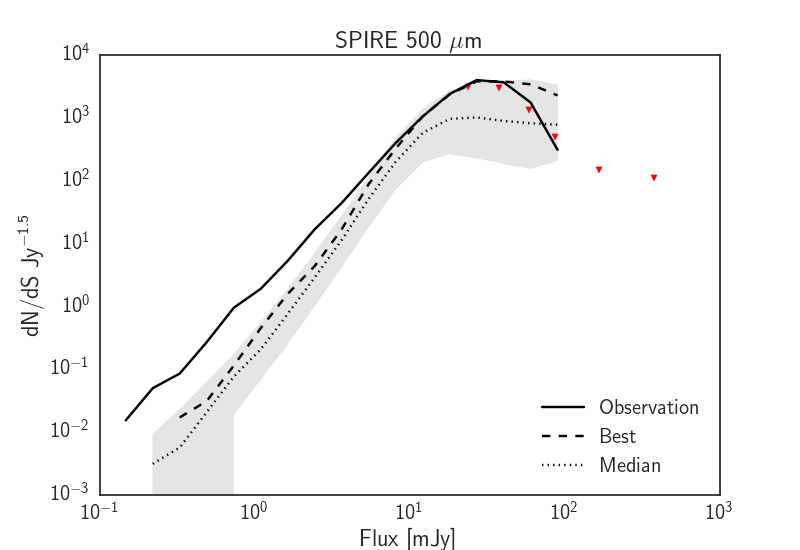
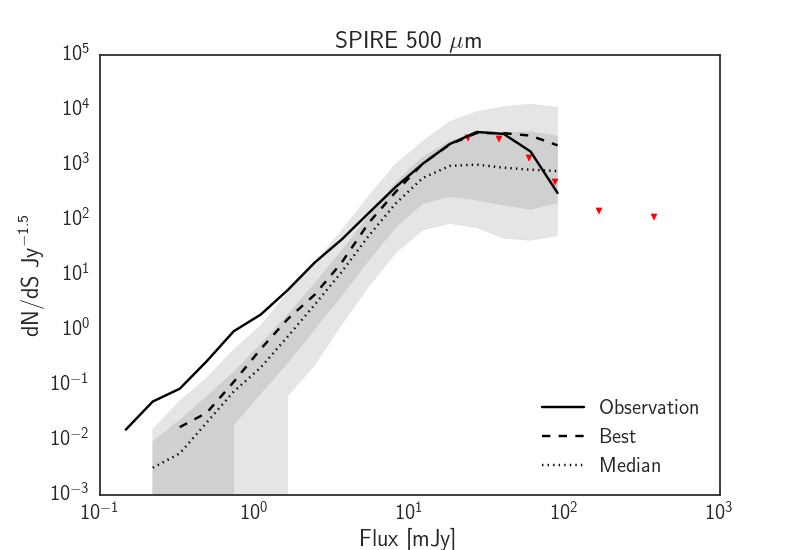
changed count plots

diff --git a/trunk/python/OutputFile.py b/trunk/python/OutputFile.py
@@ -241,6 +241,8 @@ class NumberCounts:
         medians=np.zeros(len(bins))
         errlow=np.zeros(len(bins))
         errhigh=np.zeros(len(bins))
+        errlow2=np.zeros(len(bins))
+        errhigh2=np.zeros(len(bins))
         for i in range(0,len(chainCounts[0])):
             link=chainCounts[:,i]
             medians[i]=np.median(link)
@@ -249,6 +251,10 @@ class NumberCounts:
             highind=int((1.0-0.159)*len(sortpts))
             errlow[i]=medians[i]-link[sortpts[lowind]]
             errhigh[i]=link[sortpts[highind]]-medians[i]
+            lowind=int(0.025*len(sortpts))
+            highind=int((1.0-0.025)*len(sortpts))
+            errlow2[i]=medians[i]-link[sortpts[lowind]]
+            errhigh2[i]=link[sortpts[highind]]-medians[i]
 
         if(self.fitted):            
             model=self.best['modeled'][bi]
@@ -269,6 +275,7 @@ class NumberCounts:
 
         plt.plot(bins[mpts],medians[mpts],':',label="Median",color='black')
         plt.fill_between(bins[mpts],medians[mpts]-errlow[mpts],medians[mpts]+errhigh[mpts],color='gray',alpha=0.2)
+        plt.fill_between(bins[mpts],medians[mpts]-errlow2[mpts],medians[mpts]+errhigh2[mpts],color='gray',alpha=0.2)
         #this needs to be made non-run specific perhaps by repeating the band keywords from the model into this 
         plt.title("Counts Band "+str(band))
 
